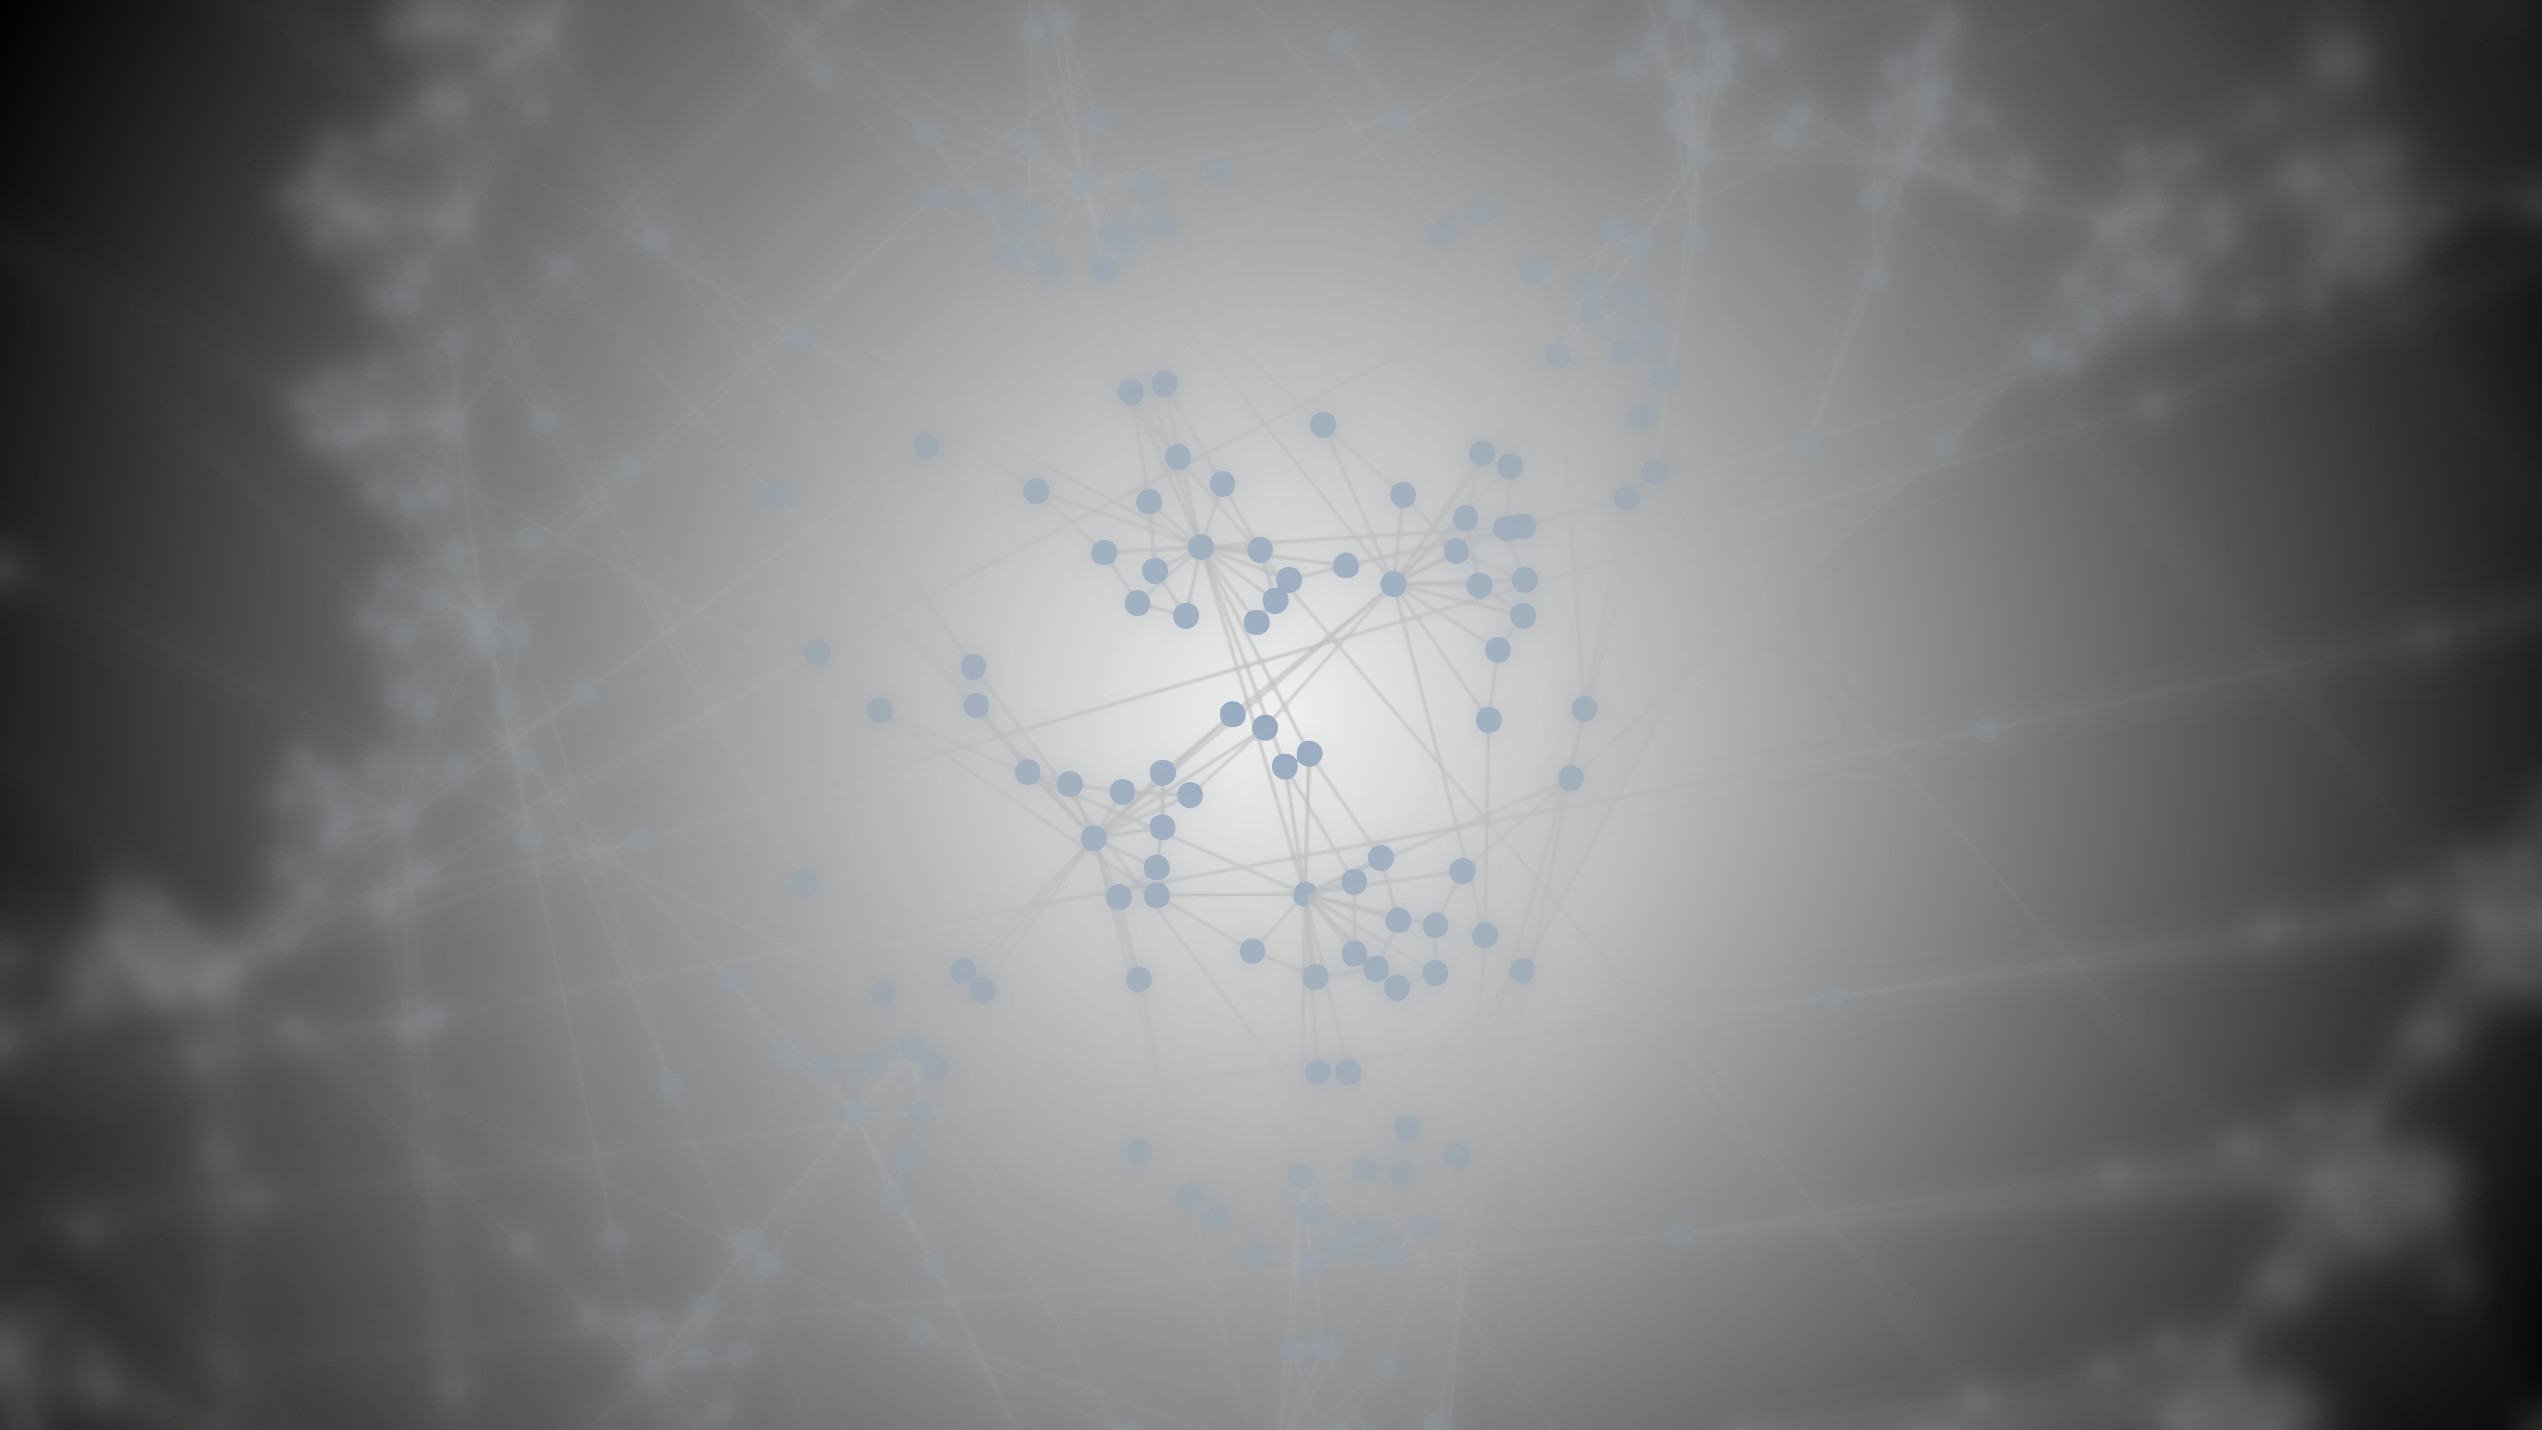
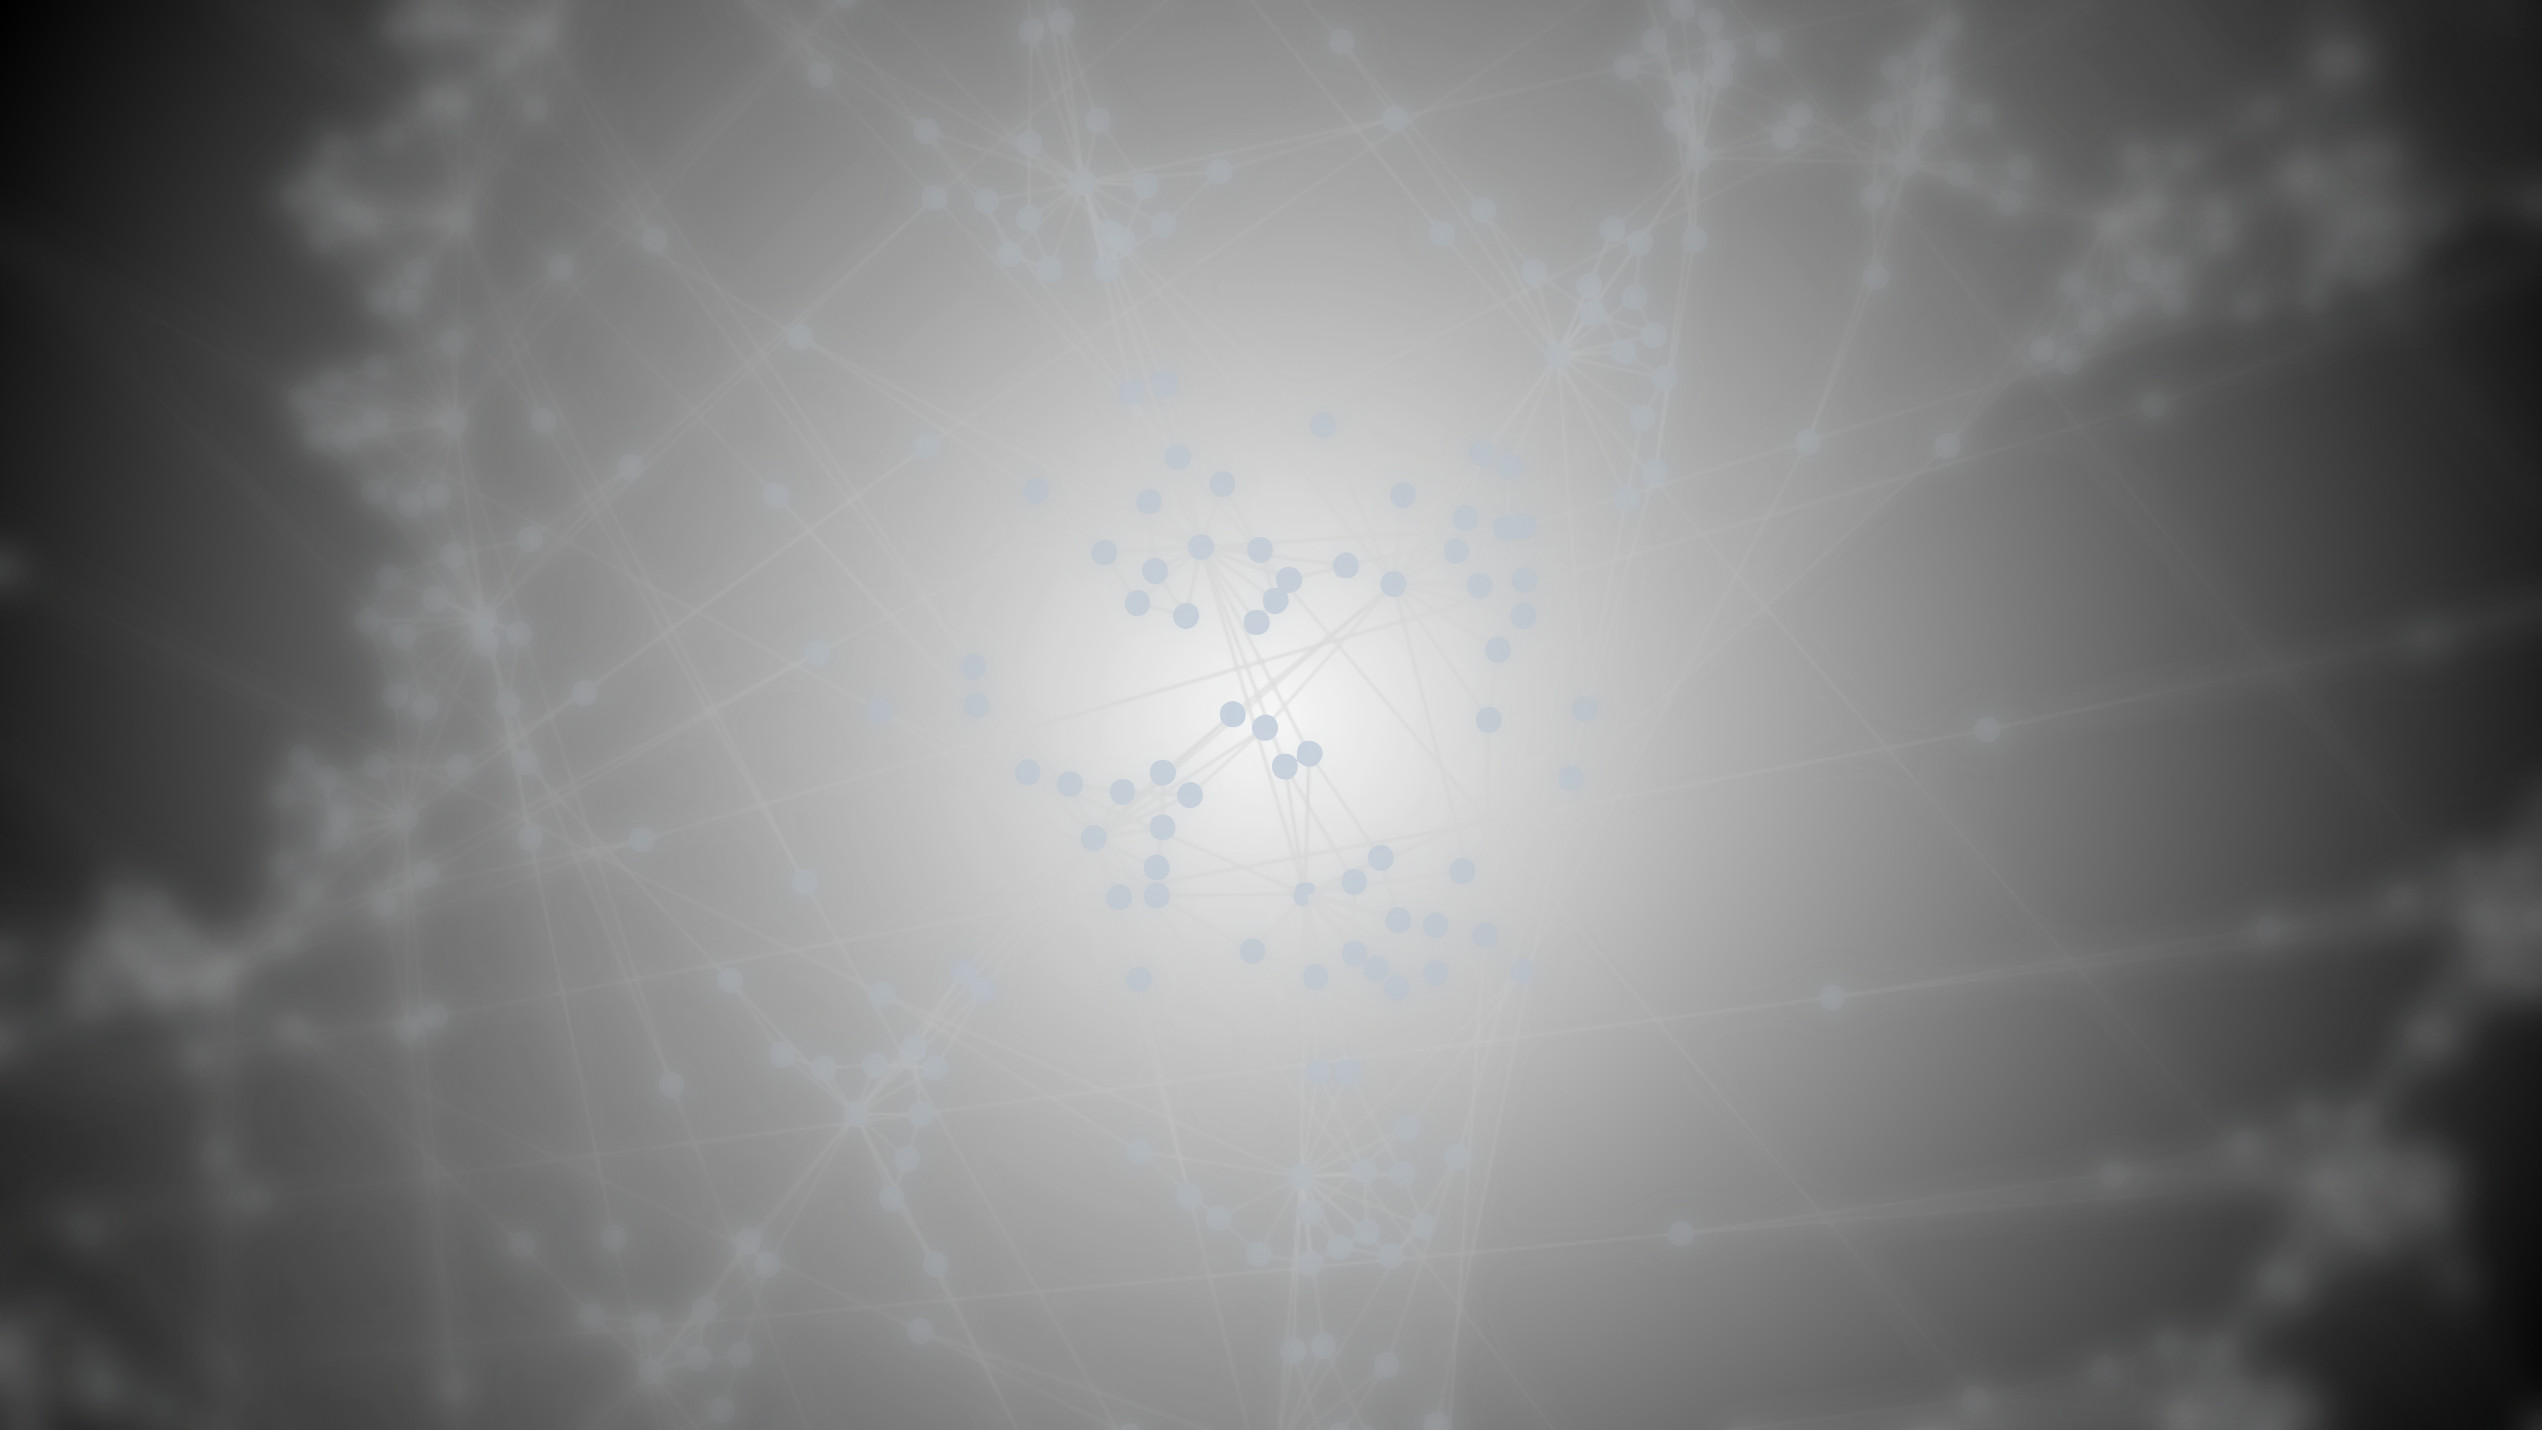
Updated background to subtler blues.

diff --git a/index.html b/index.html
@@ -105,7 +105,7 @@ URL:      https://github.com/billosys/blog
    </Group>
 
    <Variable name="body.background" description="Body Background" type="background"
-       color="$(body.background.color)" default="$(color) none repeat-x scroll top center" value="$(color) url(http://1.bp.blogspot.com/-yDaYQjSOqg4/VEhsFumc53I/AAAAAAAAACA/h3yJ4_Tsvw4/s0/back-1.2.3.3-dark-b%2526w.jpg) repeat fixed top left"/>
+       color="$(body.background.color)" default="$(color) none repeat-x scroll top center" value="$(color) url(http://1.bp.blogspot.com/-BxFY6nlr0ig/VEkx7ixvr_I/AAAAAAAAADU/9mrb8GJCh7I/s0/back-1.2.3.3-dark-with-light-blue.jpg) no-repeat fixed top left"/>
    <Variable name="content.background" description="Content Background" type="background"
        color="$(content.background.color)" default="$(color) none repeat scroll top center" value="transparent url(//blogblog.com/1kt/travel/bg_black_70.png) repeat scroll top left"/>
    <Variable name="comments.background" description="Comments Background" type="background"
